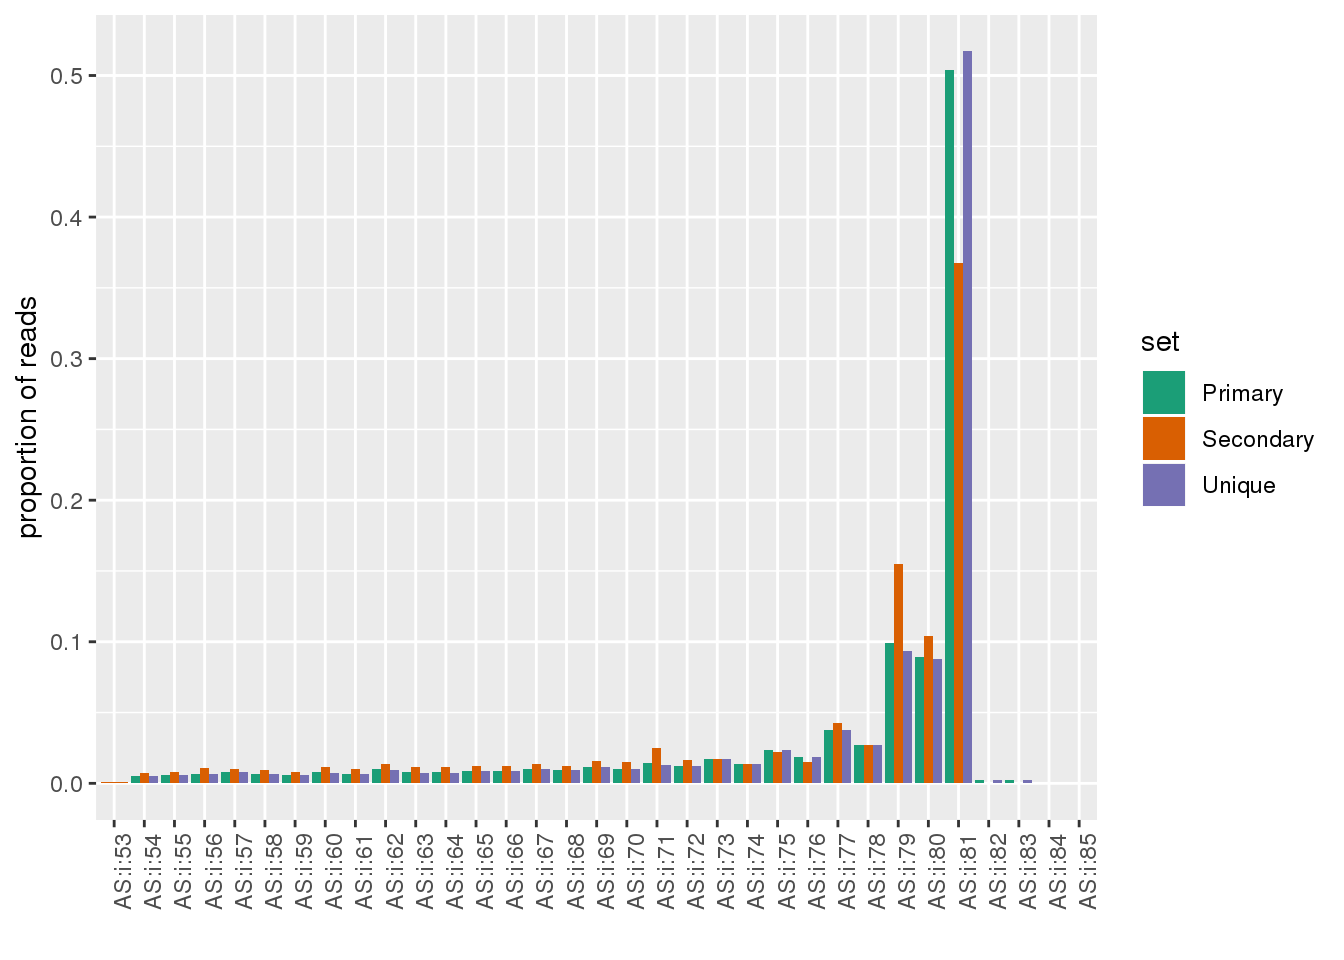
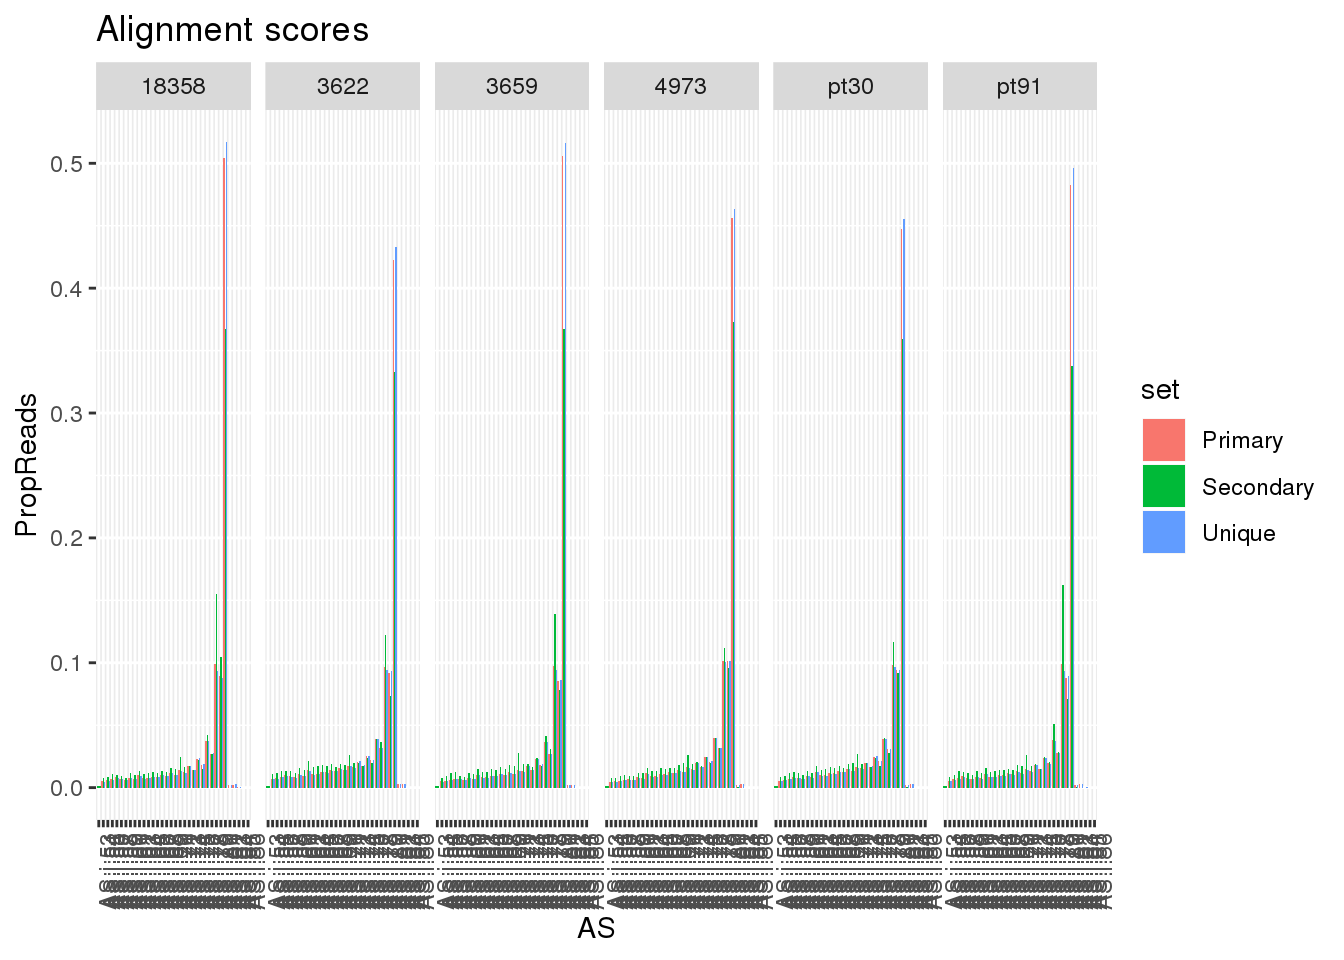
Build site.

diff --git a/docs/multimapParameters.html b/docs/multimapParameters.html
@@ -343,7 +343,7 @@ div.section {
 <div class="tab-content">
 <div id="summary" class="tab-pane fade in active">
 <p>
-<strong>Last updated:</strong> 2020-03-31
+<strong>Last updated:</strong> 2020-04-01
 </p>
 <p>
 <strong>Checks:</strong> <span class="glyphicon glyphicon-ok text-success" aria-hidden="true"></span> 7 <span class="glyphicon glyphicon-exclamation-sign text-danger" aria-hidden="true"></span> 0
@@ -434,10 +434,10 @@ This reproducible <a href="http://rmarkdown.rstudio.com">R Markdown</a> analysis
 <div class="panel panel-default">
 <div class="panel-heading">
 <p class="panel-title">
-<a data-toggle="collapse" data-parent="#workflowr-checks" href="#strongRepositoryversionstrongahrefhttpsgithubcombrimittlemanComparativeAPAtree8901b9b1ff75b6121d089ae70c72b45a8189fa76targetblank8901b9ba"> <span class="glyphicon glyphicon-ok text-success" aria-hidden="true"></span> <strong>Repository version:</strong> <a href="https://github.com/brimittleman/Comparative_APA/tree/8901b9b1ff75b6121d089ae70c72b45a8189fa76" target="_blank">8901b9b</a> </a>
+<a data-toggle="collapse" data-parent="#workflowr-checks" href="#strongRepositoryversionstrongahrefhttpsgithubcombrimittlemanComparativeAPAtree8f78c105dc5ee527f17bef8bb928c59798372a90targetblank8f78c10a"> <span class="glyphicon glyphicon-ok text-success" aria-hidden="true"></span> <strong>Repository version:</strong> <a href="https://github.com/brimittleman/Comparative_APA/tree/8f78c105dc5ee527f17bef8bb928c59798372a90" target="_blank">8f78c10</a> </a>
 </p>
 </div>
[2 lines of base64/hex data omitted]
 <div class="panel-body">
 <p>
 Great! You are using Git for version control. Tracking code development and connecting the code version to the results is critical for reproducibility. The version displayed above was the version of the Git repository at the time these results were generated. <br><br> Note that you need to be careful to ensure that all relevant files for the analysis have been committed to Git prior to generating the results (you can use <code>wflow_publish</code> or <code>wflow_git_commit</code>). workflowr only checks the R Markdown file, but you know if there are other scripts or data files that it depends on. Below is the status of the Git repository when the results were generated:
@@ -1275,6 +1275,40 @@ Message
 Rmd
 </td>
 <td>
+<a href="https://github.com/brimittleman/Comparative_APA/blob/8f78c105dc5ee527f17bef8bb928c59798372a90/analysis/multimapParameters.Rmd" target="_blank">8f78c10</a>
+</td>
+<td>
+brimittleman
+</td>
+<td>
+2020-04-01
+</td>
+<td>
+add facet plots
+</td>
+</tr>
+<tr>
+<td>
+html
+</td>
+<td>
+<a href="https://rawcdn.githack.com/brimittleman/Comparative_APA/9d7982197b0dde48101130d1035bab088fadf720/docs/multimapParameters.html" target="_blank">9d79821</a>
+</td>
+<td>
+brimittleman
+</td>
+<td>
+2020-03-31
+</td>
+<td>
+Build site.
+</td>
+</tr>
+<tr>
+<td>
+Rmd
+</td>
+<td>
 <a href="https://github.com/brimittleman/Comparative_APA/blob/8901b9b1ff75b6121d089ae70c72b45a8189fa76/analysis/multimapParameters.Rmd" target="_blank">8901b9b</a>
 </td>
 <td>
@@ -1400,12 +1434,12 @@ add ortho exon and new mm
 <pre><code>This is workflowr version 1.6.0
 Run ?workflowr for help getting started</code></pre>
 <pre class="r"><code>library(tidyverse)</code></pre>
-<pre><code>── Attaching packages ────────────────────────────────────────────────────────────── tidyverse 1.2.1 ──</code></pre>
+<pre><code>── Attaching packages ──────────────────────────────────────────────────────────────── tidyverse 1.2.1 ──</code></pre>
 <pre><code>✔ ggplot2 3.1.1       ✔ purrr   0.3.2  
 ✔ tibble  2.1.1       ✔ dplyr   0.8.0.1
 ✔ tidyr   0.8.3       ✔ stringr 1.3.1  
 ✔ readr   1.3.1       ✔ forcats 0.3.0  </code></pre>
-<pre><code>── Conflicts ───────────────────────────────────────────────────────────────── tidyverse_conflicts() ──
+<pre><code>── Conflicts ─────────────────────────────────────────────────────────────────── tidyverse_conflicts() ──
 ✖ dplyr::filter() masks stats::filter()
 ✖ dplyr::lag()    masks stats::lag()</code></pre>
 <p>I want to look at the parameters for multimapping. I will look at the paremeters such as include a read when the first vs second map difference is 10%, 5% ect. I want to get to a cutoff where the PAS lost are not in the ortho exon.</p>
@@ -2007,6 +2041,10 @@ brimittleman
 </table>
 </div>
 </div>
+<pre class="r"><code>allMismatch=allUniqmismatch %&gt;% bind_rows(allHumanmismatch)%&gt;% bind_rows(allChimpmismatch) %&gt;% group_by( species, set, Mis) %&gt;% summarise(MeanProp=mean(PropReads), SD=sd(PropReads))
+
+ggplot(allMismatch,aes(x=Mis, by=set,fill=set, y=MeanProp))+ geom_bar(stat=&quot;identity&quot;, position=&quot;dodge&quot;)+ theme(axis.text.x = element_text(angle = 90, hjust = 1)) + scale_fill_brewer(palette = &quot;Dark2&quot;) + labs(title=&quot;Mismatch scores for Human 18523&quot;,x=&quot;&quot;,y=&quot;proportion of reads&quot;) + facet_grid(~species)+ geom_errorbar(aes(ymin=MeanProp-SD, ymax=MeanProp+SD), width=.2, position=position_dodge(.9))</code></pre>
+<p><img src="figure/multimapParameters.Rmd/unnamed-chunk-23-1.png" width="672" style="display: block; margin: auto;" /></p>
 <p>So even uniq reads have mismatches.<br />
 ##Alignment scores<br />
 “AS” SAM tag express the “Alignment score generated by aligner”, 14th column</p>
@@ -2076,11 +2114,49 @@ Chimp_pt91_ASuniq=read.table(&quot;../data/TestMM2_AS/chimp_combined_pt91_N_255_
   ungroup() %&gt;%
   mutate(PropReads=Reads/TotalReads)</code></pre>
 <pre class="r"><code>ggplot(ChimpAS, aes(x=AS,y=PropReads,by=set, fill=set)) + geom_bar(stat=&quot;identity&quot;,position = &quot;dodge&quot;) + facet_grid(~line)+  theme(axis.text.x = element_text(angle = 90, hjust = 1)) + labs(title=&quot;Alignment scores&quot;)</code></pre>
-<p><img src="figure/multimapParameters.Rmd/unnamed-chunk-26-1.png" width="672" style="display: block; margin: auto;" /> Filter 1 individual to see better:</p>
+<p><img src="figure/multimapParameters.Rmd/unnamed-chunk-27-1.png" width="672" style="display: block; margin: auto;" /></p>
+<p>
+<button type="button" class="btn btn-default btn-xs btn-workflowr btn-workflowr-fig" data-toggle="collapse" data-target="#fig-unnamed-chunk-27-1">
+Past versions of unnamed-chunk-27-1.png
+</button>
+</p>
+<div id="fig-unnamed-chunk-27-1" class="collapse">
+<div class="table-responsive">
+<table class="table table-condensed table-hover">
+<thead>
+<tr>
+<th>
+Version
+</th>
+<th>
+Author
+</th>
+<th>
+Date
+</th>
+</tr>
+</thead>
+<tbody>
+<tr>
+<td>
+<a href="https://github.com/brimittleman/Comparative_APA/blob/9d7982197b0dde48101130d1035bab088fadf720/docs/figure/multimapParameters.Rmd/unnamed-chunk-27-1.png" target="_blank">9d79821</a>
+</td>
+<td>
+brimittleman
+</td>
+<td>
+2020-03-31
+</td>
+</tr>
+</tbody>
+</table>
+</div>
+</div>
+<p>Filter 1 individual to see better:</p>
 <pre class="r"><code>ChimpAS18358= ChimpAS %&gt;% filter(line==&quot;18358&quot;)
 
 ggplot(ChimpAS18358, aes(x=AS,y=PropReads,by=set, fill=set)) + geom_bar(stat=&quot;identity&quot;,position = &quot;dodge&quot;)+ theme(axis.text.x = element_text(angle = 90, hjust = 1)) + scale_fill_brewer(palette = &quot;Dark2&quot;) + labs(tite=&quot;Alignment scores for Chimp 18358&quot;,x=&quot;&quot;,y=&quot;proportion of reads&quot;)</code></pre>
-<p><img src="figure/multimapParameters.Rmd/unnamed-chunk-27-1.png" width="672" style="display: block; margin: auto;" /></p>
+<p><img src="figure/multimapParameters.Rmd/unnamed-chunk-28-1.png" width="672" style="display: block; margin: auto;" /></p>
 <p>Try human:</p>
 <pre class="r"><code>Human_18498_ASprimary=read.table(&quot;../data/TestMM2_AS/human_combined_18498_N_Primary.txt&quot;, stringsAsFactors = F, col.names = c(&quot;Reads&quot;, &quot;AS&quot;)) %&gt;% mutate(set=&quot;Primary&quot;, species=&quot;Human&quot;, line=&quot;18498&quot;)
 
@@ -2145,12 +2221,56 @@ Human_18523_ASuniq=read.table(&quot;../data/TestMM2_AS/human_combined_18523_N_25
    ungroup() %&gt;%
     mutate(PropReads=Reads/TotalReads)</code></pre>
 <pre class="r"><code>ggplot(Human_AS, aes(x=AS,y=PropReads,by=set, fill=set)) + geom_bar(stat=&quot;identity&quot;,position = &quot;dodge&quot;)+ theme(axis.text.x = element_text(angle = 90, hjust = 1)) + scale_fill_brewer(palette = &quot;Dark2&quot;) + labs(tite=&quot;Alignment scores for Human Lines&quot;,x=&quot;&quot;,y=&quot;proportion of reads&quot;)+facet_grid(~line)</code></pre>
-<p><img src="figure/multimapParameters.Rmd/unnamed-chunk-30-1.png" width="672" style="display: block; margin: auto;" /></p>
+<p><img src="figure/multimapParameters.Rmd/unnamed-chunk-31-1.png" width="672" style="display: block; margin: auto;" /></p>
+<p>
+<button type="button" class="btn btn-default btn-xs btn-workflowr btn-workflowr-fig" data-toggle="collapse" data-target="#fig-unnamed-chunk-31-1">
+Past versions of unnamed-chunk-31-1.png
+</button>
+</p>
+<div id="fig-unnamed-chunk-31-1" class="collapse">
+<div class="table-responsive">
+<table class="table table-condensed table-hover">
+<thead>
+<tr>
+<th>
+Version
+</th>
+<th>
+Author
+</th>
+<th>
+Date
+</th>
+</tr>
+</thead>
+<tbody>
+<tr>
+<td>
+<a href="https://github.com/brimittleman/Comparative_APA/blob/9d7982197b0dde48101130d1035bab088fadf720/docs/figure/multimapParameters.Rmd/unnamed-chunk-31-1.png" target="_blank">9d79821</a>
+</td>
+<td>
+brimittleman
+</td>
+<td>
+2020-03-31
+</td>
+</tr>
+</tbody>
+</table>
+</div>
+</div>
 <p>One line:</p>
 <pre class="r"><code>HumanAS18523= Human_AS %&gt;% filter(line==&quot;18523&quot;)
 
 ggplot(HumanAS18523, aes(x=AS,y=PropReads,by=set, fill=set)) + geom_bar(stat=&quot;identity&quot;,position = &quot;dodge&quot;)+ theme(axis.text.x = element_text(angle = 90, hjust = 1)) + scale_fill_brewer(palette = &quot;Dark2&quot;) + labs(tite=&quot;Alignment scores for Human 18523&quot;,x=&quot;&quot;,y=&quot;proportion of reads&quot;)</code></pre>
-<p><img src="figure/multimapParameters.Rmd/unnamed-chunk-31-1.png" width="672" style="display: block; margin: auto;" /> This does not differentiate good and bad reads either.</p>
+<p><img src="figure/multimapParameters.Rmd/unnamed-chunk-32-1.png" width="672" style="display: block; margin: auto;" /> This does not differentiate good and bad reads either.</p>
+<pre class="r"><code>Human_AS_g= Human_AS %&gt;% group_by( set, AS) %&gt;% summarise(MeanProp=mean(PropReads), SD=sd(PropReads)) %&gt;% mutate(species=&quot;human&quot;)
+Chimp_AS_g= ChimpAS %&gt;% group_by( set, AS) %&gt;% summarise(MeanProp=mean(PropReads), SD=sd(PropReads)) %&gt;% mutate(species=&quot;chimp&quot;)
+BothASG=Human_AS_g %&gt;% bind_rows(Chimp_AS_g)
+
+ggplot(BothASG,aes(x=AS, by=set,fill=set, y=MeanProp))+ geom_bar(stat=&quot;identity&quot;, position=&quot;dodge&quot;)+ theme(axis.text.x = element_text(angle = 90, hjust = 1)) + scale_fill_brewer(palette = &quot;Dark2&quot;) + labs(title=&quot;Alignment scores for Human 18523&quot;,x=&quot;&quot;,y=&quot;proportion of reads&quot;) + facet_grid(~species)+ geom_errorbar(aes(ymin=MeanProp-SD, ymax=MeanProp+SD), width=.2, position=position_dodge(.9))</code></pre>
+<pre><code>Warning: Removed 5 rows containing missing values (geom_errorbar).</code></pre>
+<p><img src="figure/multimapParameters.Rmd/unnamed-chunk-33-1.png" width="672" style="display: block; margin: auto;" /></p>
 <br>
 <p>
 <button type="button" class="btn btn-default btn-workflowr btn-workflowr-sessioninfo" data-toggle="collapse" data-target="#workflowr-sessioninfo" style="display: block;">
